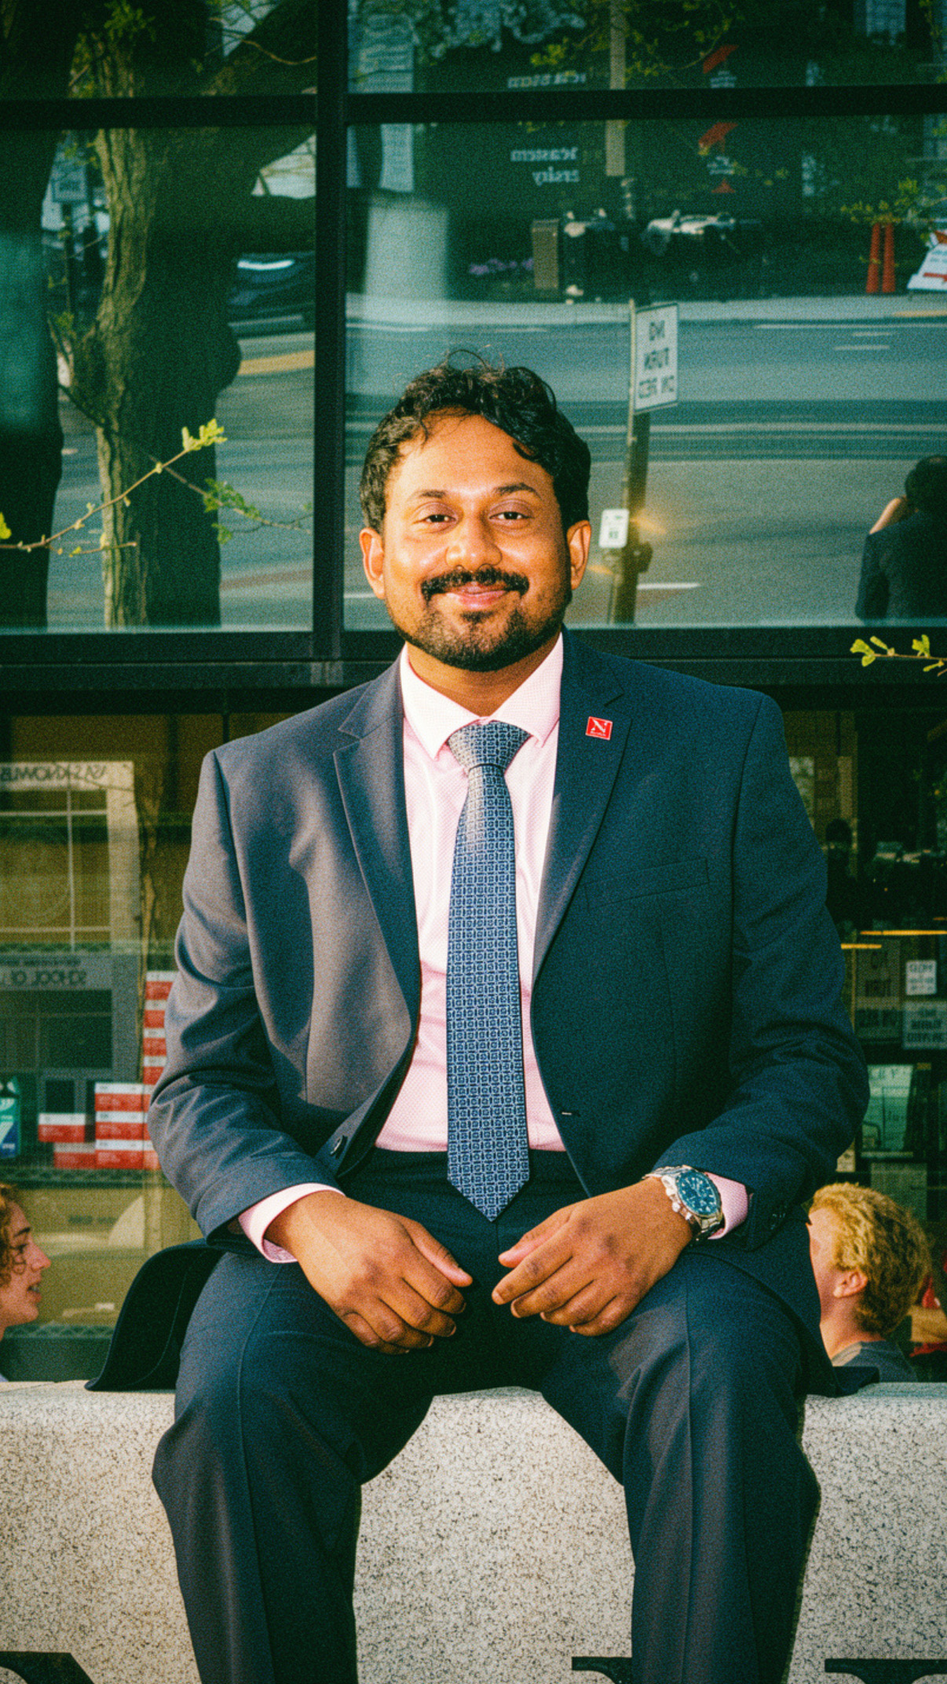
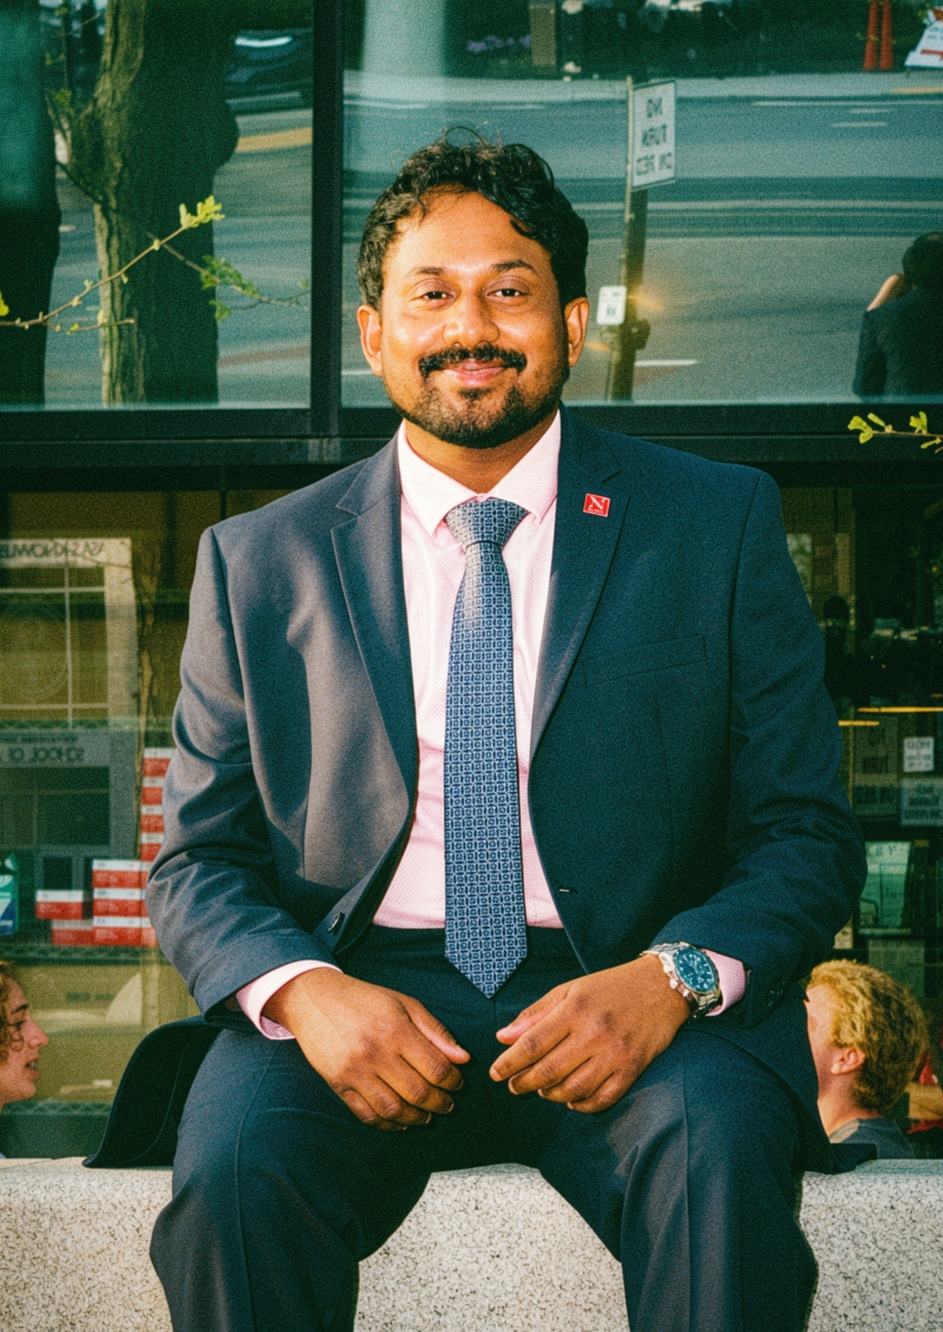
Add three projects from the GitHub audit
Crawled both accounts and read the codebases rather than the READMEs, same
as the existing thirteen. These were the three worth adding.

Mental Wellness Companion. PPO for the conversation policy and Thompson
sampling for resource recommendation, split because the feedback differs:
one resolves at the end of an episode, the other on every choice. The
argument on the page is its ablation, where removing the safety layer barely
moves engagement (79% to 75%) and takes the safety score to zero, which is
why safety sits outside the reward rather than inside it as a weight.

Deep Q-Learning on Atari Kaboom. Fills a gap twice over with the above:
there was no reinforcement learning here at all. The page leads on the
experiment matrix rather than the agent, since the baseline is measured
first and every variable moved on its own, making the findings attributable.

Financial Report Analyzer. Distinct from nvidia-fin-rag, which is the
chunking experiment; this is the agentic layer, where every tool edge
returns to the oracle so step count follows the question.

All figures trace to committed files. The wellness page carries a source
note: its numbers are a self-reported evaluation against a simulated
cohort, not a clinical result, and no real patient data is involved.

diff --git a/src/content/project-details.ts b/src/content/project-details.ts
@@ -407,6 +407,88 @@ export const projectDetails: Record<string, ProjectDetail> = {
     links: [{ label: "Live app", href: "https://nvidia-finrag.streamlit.app/" }],
   },
 
+  "financial-report-agent": {
+    problem:
+      "A question about a company rarely sits in one source. What the last filing said is in a PDF, what the market thinks is in today's price, and what changed this week is in the news. Answering from any one of them alone gives a confident answer built on a partial picture. This puts all three behind a single agent and lets it decide, after every step, which one the question still needs.",
+    stages: [
+      {
+        name: "Read the filings",
+        detail:
+          "Quarterly earnings reports are collected per company across 2023, 2024 and 2025, and converted with Mistral OCR, since a scanned report yields nothing useful to an embedding model without it. The markdown that comes out is what everything downstream works on.",
+      },
+      {
+        name: "Chunk against the tokenizer",
+        detail:
+          "Text is grouped into semantic chunks, then measured with tiktoken using the embedding model's own encoding. Anything over the limit is split by tokens rather than characters, so a chunk is never silently truncated at embed time. Vectors are upserted to Pinecone keyed by company, year and quarter, which is what makes a filtered question possible later.",
+      },
+      {
+        name: "Put an oracle in front",
+        detail:
+          "A LangGraph state graph holds one oracle node that decides what to do next, and four tools it can call. Every tool edge routes back to the oracle rather than onward to the next tool, so the graph loops instead of running a fixed pipeline, and the number of steps is set by the question rather than by the wiring.",
+      },
+      {
+        name: "Four tools, four different questions",
+        detail:
+          "Vector search answers what a filing said. Web search covers what has happened since. The market tool pulls a price history for a date range and computes change, percentage move, volatility, high and low. The fourth tool is the final answer, which is how the loop terminates rather than running until it hits a step limit.",
+      },
+      {
+        name: "Serve it, and let the caller narrow it",
+        detail:
+          "A FastAPI service exposes health, analyze, options, sample queries and a per-tool test endpoint. The Streamlit interface reads the options endpoint to offer year, quarter and company filters plus a choice of which tools are permitted, so the search space can be cut before the agent starts rather than after.",
+      },
+    ],
+    decisions: [
+      {
+        title: "Every tool returns to the oracle",
+        detail:
+          "The alternative is a pipeline: retrieve, then search, then summarise. That works until a question needs the market data before it knows which filing matters, at which point a fixed order is wrong. Routing every tool back to the oracle costs an extra decision per step and buys the ability to answer questions the graph was never explicitly designed for.",
+      },
+      {
+        title: "A test endpoint per tool",
+        detail:
+          "Agent loops fail in a specific way: the answer is wrong and it is not obvious which leg produced it. Exposing the tools individually means a suspect tool can be exercised on its own with a known input, so debugging is a single call rather than a full run followed by inference about what went wrong inside it.",
+      },
+      {
+        title: "Token budgets, not character counts",
+        detail:
+          "Chunking on characters is the common shortcut and it fails at the boundary: a chunk that looks fine is rejected or silently cut by the embedding model. Counting with the tokenizer that model actually uses means the split happens where the limit really is, and the sub-chunks that come out are all embeddable by construction.",
+      },
+    ],
+    results: [
+      {
+        metric: "4",
+        label: "Tools the agent routes between, each returning to the oracle",
+      },
+      { metric: "12", label: "Quarters indexed per company, 2023 through 2025" },
+      { metric: "3", label: "Sources reconciled: filings, market data, and news" },
+      { metric: "5", label: "API endpoints, with every tool testable on its own" },
+    ],
+    diagram: {
+      caption:
+        "The loop is the point. Every tool edge returns to the oracle rather than continuing to the next tool, so the number of steps is decided by the question rather than fixed by the graph.",
+      lanes: ["Source", "Extract", "Store", "Agent", "Serve"],
+      nodes: [
+        { id: "filings", label: "Quarterly\nfilings", col: 0, row: 0, kind: "source", note: "2023 to 2025" },
+        { id: "ocr", label: "Mistral OCR", col: 1, row: 0, kind: "process", note: "pdf to markdown" },
+        { id: "chunks", label: "Semantic chunks", col: 1, row: 1, kind: "process", note: "tiktoken budget" },
+        { id: "pine", label: "Pinecone", col: 2, row: 0, kind: "store", note: "year, quarter" },
+        { id: "oracle", label: "Oracle", col: 3, row: 0, kind: "process", note: "decides each step" },
+        { id: "tools", label: "4 tools", col: 3, row: 1, kind: "model", note: "back to oracle" },
+        { id: "live", label: "Market + news", col: 3, row: 2, kind: "source", note: "yfinance, serpapi" },
+        { id: "api", label: "FastAPI", col: 4, row: 0, kind: "serve", note: "5 endpoints" },
+      ],
+      edges: [
+        { from: "filings", to: "ocr" },
+        { from: "ocr", to: "chunks" },
+        { from: "chunks", to: "pine" },
+        { from: "pine", to: "oracle" },
+        { from: "oracle", to: "tools" },
+        { from: "live", to: "tools" },
+        { from: "tools", to: "api" },
+      ],
+    },
+  },
+
   "lora-peft-finetuning": {
     problem:
       "Fully fine-tuning a language model updates every weight, which needs hardware most people do not have and produces a checkpoint as large as the original model. This project adapts microsoft/DialoGPT-medium to a mental health question and answer domain by training a small fraction of it, on a single free Colab GPU, and ships the result as a file small enough to attach to an email.",
@@ -483,6 +565,174 @@ export const projectDetails: Record<string, ProjectDetail> = {
         { from: "lora", to: "train" },
         { from: "train", to: "eval" },
         { from: "eval", to: "out" },
+      ],
+    },
+  },
+
+  "mental-wellness-rl": {
+    problem:
+      "A support agent that learns from experience needs conversations to learn from, and in this domain those conversations are patient data. The way around it is to not use any: personas are generated from archetypes and a severity distribution, an LLM plays them turn by turn, and the policy trains against thousands of simulated conversations. That buys the training signal without the privacy problem, and it makes the safety layer non-optional rather than a feature, because an agent optimising a reward will happily find responses that score well and should never be said.",
+    stages: [
+      {
+        name: "Generate the people",
+        detail:
+          "A persona generator builds psychologically consistent users from a set of archetypes and a severity distribution, and an LLM then plays each one across a conversation. No real transcript is used at any point, which is the reason the project can exist as an open repository at all.",
+      },
+      {
+        name: "Describe the state",
+        detail:
+          "Each turn is compressed into a 256 dimension embedding: five emotional dimensions covering anxiety, depression, stress, anger and happiness, the previous five turns, three engagement signals, and two temporal features including how long it has been since the last contact.",
+      },
+      {
+        name: "Decide on three axes at once",
+        detail:
+          "The policy network runs 512, 256 and 128 hidden units and emits nineteen logits, which are read as three separate choices: one of eight conversation strategies, one of six resource types, and one of five response tones. A check-in time between one and 168 hours is chosen alongside them, so the agent decides not only what to say but when to come back.",
+      },
+      {
+        name: "Learn with two algorithms",
+        detail:
+          "PPO trains the conversation policy, clipping at 0.2 with an entropy bonus of 0.01, generalised advantage estimation and ten update epochs per batch. Resource recommendation instead runs Thompson sampling over Beta-distributed arms, sampling each arm's success probability rather than estimating a long-horizon return.",
+      },
+      {
+        name: "Score it, then override the score",
+        detail:
+          "Reward weights engagement at 0.4, mood improvement 0.3, resource use 0.2 and conversation quality 0.1, with a safety penalty of minus one and a crisis penalty of minus ten. Separately from the reward, a monitor screens every inbound message and outbound response for crisis keywords, harmful patterns and boundary violations, and appends crisis resources whenever risk crosses the referral threshold.",
+      },
+    ],
+    decisions: [
+      {
+        title: "Simulated users, by necessity and by design",
+        detail:
+          "Reinforcement learning needs far more conversations than any ethical collection process would yield here, and real ones would be among the most sensitive data there is. Generating personas and letting a language model play them removes the consent problem entirely. The cost is honest and worth stating: the agent is good at the simulated cohort it was trained against, which is not the same as being good with people.",
+      },
+      {
+        title: "Two learners, because the feedback differs",
+        detail:
+          "Conversation strategy pays off over a whole episode, so it needs a method that can assign credit backwards across turns, which is PPO. A resource recommendation gets its own immediate signal, so treating it the same way would spread one clear outcome across an entire conversation. Thompson sampling uses that signal where it lands, and the split follows the shape of the feedback rather than a preference for one algorithm.",
+      },
+      {
+        title: "Safety is not a weight in the reward",
+        detail:
+          "The ablation is the argument. Removing the safety layer barely moves engagement, 79% down to 75%, and takes the safety score from 100 to zero. Anything expressed as a reward term is by definition tradeable against the other terms, and those numbers show the trade is one an optimiser would happily make. It sits outside the objective, as a monitor that can override the policy's output.",
+      },
+    ],
+    results: [
+      { metric: "0", label: "Safety violations across 476 training episodes" },
+      { metric: "79%", label: "Engagement rate, a 75% improvement on the baseline" },
+      {
+        metric: "19",
+        label: "Action dimensions: 8 strategies, 6 resources, 5 tones",
+      },
+      { metric: "4", label: "Ablations: full, no PPO, no bandits, no safety" },
+    ],
+    diagram: {
+      caption:
+        "A closed training loop with no real user in it. The safety monitor sits between the policy and the reward deliberately, so it can override an action the objective would otherwise have rewarded.",
+      lanes: ["Simulate", "Observe", "Act", "Learn"],
+      nodes: [
+        { id: "persona", label: "Persona\ngenerator", col: 0, row: 0, kind: "source", note: "archetypes" },
+        { id: "user", label: "LLM user", col: 0, row: 1, kind: "source", note: "plays the persona" },
+        { id: "state", label: "256-d state", col: 1, row: 0, kind: "store", note: "mood, history" },
+        { id: "policy", label: "Policy network", col: 2, row: 0, kind: "model", note: "19 outputs" },
+        { id: "bandit", label: "Thompson bandit", col: 2, row: 1, kind: "model", note: "resources" },
+        { id: "safety", label: "Safety monitor", col: 2, row: 2, kind: "process", note: "can override" },
+        { id: "reward", label: "Reward", col: 3, row: 0, kind: "store", note: "4 terms, 2 penalties" },
+        { id: "ppo", label: "PPO update", col: 3, row: 1, kind: "process", note: "clip 0.2, GAE" },
+      ],
+      edges: [
+        { from: "persona", to: "user" },
+        { from: "user", to: "state" },
+        { from: "state", to: "policy" },
+        { from: "state", to: "bandit" },
+        { from: "policy", to: "safety" },
+        { from: "safety", to: "reward" },
+        { from: "bandit", to: "reward" },
+        { from: "reward", to: "ppo" },
+      ],
+    },
+    sourceNote:
+      "The engagement, mood and safety figures are the project's own evaluation against its simulated cohort, reported in the repository. They are not a clinical result and nothing here was trained on, or tested with, real patient data.",
+  },
+
+  "atari-kaboom-dqn": {
+    problem:
+      "Getting a Q-network to play an Atari game is a solved exercise, and a score on its own says very little: without knowing what random play scores, ten points could be excellent or barely better than nothing. This project treats that as the actual work. A baseline is measured first, then learning rate, discount, exploration policy and decay schedule are each varied on their own, and every run's raw scores are committed rather than summarised.",
+    stages: [
+      {
+        name: "Frame the problem honestly",
+        detail:
+          "Kaboom presents a 210 by 160 RGB frame and four discrete actions: no-op, fire, right and left. Inspecting the reward structure first showed no shaped reward to lean on, so the score is the only learning signal and the agent has to discover timing and positioning from it alone.",
+      },
+      {
+        name: "Measure random play",
+        detail:
+          "A random agent runs over the same episode budget and scores a mean of 3.45. That number comes before any training and is what every later figure is quoted against, which is the difference between reporting an improvement and reporting a score.",
+      },
+      {
+        name: "Build the network",
+        detail:
+          "A convolutional Q-network of 11.6 million parameters maps the raw frame to four action values. Experience replay breaks the correlation between consecutive frames, and a separate target network holds the bootstrap target still, so the value being regressed towards is not moving with the weights doing the regressing.",
+      },
+      {
+        name: "Vary one thing at a time",
+        detail:
+          "Learning rate is tested at 0.00025 and 0.001, discount at 0.99 and 0.8, exploration as epsilon-greedy against Boltzmann, and three epsilon decay schedules covering fast, slow and low-start. Each run changes a single variable, which is what makes the resulting difference attributable to it.",
+      },
+      {
+        name: "Commit the numbers",
+        detail:
+          "Ten result files land next to the notebook holding per-episode scores, the epsilon reached at the step limit, environment and architecture summaries, and the comparison tables. The claims on this page are read out of those files rather than from the write-up.",
+      },
+    ],
+    decisions: [
+      {
+        title: "Baseline before agent",
+        detail:
+          "Random play scoring 3.45 is the least interesting run and the most important one. Without it the trained agent's 10.85 is a number with nothing to compare against, and the temptation is to describe it as good. With it, the claim is 214% and it is checkable.",
+      },
+      {
+        title: "One variable per run, even when it is slow",
+        detail:
+          "Changing several settings at once and keeping whatever scores best produces a configuration nobody can explain. Isolating them costs more runs and yields attributable findings: raising the learning rate to 0.001 cost 24%, and dropping the discount to 0.8 cost 56%, which says the game's reward is far enough in the future that a short horizon cannot see it.",
+      },
+      {
+        title: "Report the experiment that lost",
+        detail:
+          "Boltzmann exploration scored 8.3 against epsilon-greedy's 8.95, about 7% behind. It stayed in the results rather than being quietly dropped. A comparison only means anything if the losing arm is still visible, and on this environment it is a genuine finding that the simpler policy won.",
+      },
+    ],
+    results: [
+      { metric: "214%", label: "Improvement over random play, 3.45 to 10.85" },
+      { metric: "11.6M", label: "Parameters in the convolutional Q-network" },
+      {
+        metric: "56%",
+        label: "Performance lost by dropping the discount to 0.8",
+      },
+      { metric: "10", label: "Result files committed alongside the notebook" },
+    ],
+    diagram: {
+      caption:
+        "The agent is the ordinary part. Replay and a separate target network keep training stable, and the experiment matrix on the right is what turns a single score into an attributable result.",
+      lanes: ["Environment", "Network", "Training", "Evidence"],
+      nodes: [
+        { id: "env", label: "Kaboom (ALE)", col: 0, row: 0, kind: "source", note: "210x160, 4 actions" },
+        { id: "random", label: "Random agent", col: 0, row: 1, kind: "process", note: "baseline 3.45" },
+        { id: "cnn", label: "CNN Q-network", col: 1, row: 0, kind: "model", note: "11.6M params" },
+        { id: "replay", label: "Replay buffer", col: 1, row: 1, kind: "store", note: "breaks correlation" },
+        { id: "target", label: "Target network", col: 2, row: 0, kind: "model", note: "stable bootstrap" },
+        { id: "explore", label: "Exploration", col: 2, row: 1, kind: "process", note: "greedy, boltzmann" },
+        { id: "runs", label: "Experiment matrix", col: 3, row: 0, kind: "process", note: "one variable each" },
+        { id: "json", label: "Result files", col: 3, row: 1, kind: "store", note: "raw scores" },
+      ],
+      edges: [
+        { from: "env", to: "cnn" },
+        { from: "random", to: "runs" },
+        { from: "cnn", to: "replay" },
+        { from: "replay", to: "target" },
+        { from: "cnn", to: "explore" },
+        { from: "target", to: "runs" },
+        { from: "explore", to: "runs" },
+        { from: "runs", to: "json" },
       ],
     },
   },

diff --git a/src/content/site.ts b/src/content/site.ts
@@ -1097,6 +1097,28 @@ export const projects: Project[] = [
     featured: false,
   },
   {
+    slug: "financial-report-agent",
+    title: "Financial Report Analyzer",
+    discipline: "AI Systems",
+    cardLine: "Filings, live prices and news in one answer.",
+    blurb:
+      "An agent that routes between quarterly filings, live market data and current news, deciding after every step which of the three a question still needs.",
+    description:
+      "Quarterly earnings reports for 2023 through 2025 are read with Mistral OCR, chunked against the embedding model's own tokenizer, and stored in Pinecone keyed by company, year and quarter. A LangGraph oracle then sits in front of four tools: the vector store for what a filing said, web search for what has happened since, a market data tool computing price change, volatility, high and low over a range, and a final answer that closes the loop. Every tool edge returns to the oracle, so a question needing both a filing and a live price gets both without either being hardcoded.",
+    outcome:
+      "4 tools behind one routing loop, over 12 indexed quarters per company",
+    stack: [
+      "LangGraph",
+      "Pinecone",
+      "Mistral OCR",
+      "FastAPI",
+      "Streamlit",
+      "yfinance",
+    ],
+    repo: "https://github.com/vedantmane12/financial-report-analyzer",
+    featured: false,
+  },
+  {
     slug: "lora-peft-finetuning",
     title: "LoRA / PEFT Fine-Tuning",
     discipline: "Machine Learning",
@@ -1116,6 +1138,50 @@ export const projects: Project[] = [
       "Responsible AI",
     ],
     repo: "https://github.com/vedantmane12/LLM-FineTuning",
+    featured: false,
+  },
+  {
+    slug: "mental-wellness-rl",
+    title: "Mental Wellness Companion",
+    discipline: "Machine Learning",
+    cardLine: "Trained on simulated people, never on patients.",
+    blurb:
+      "A reinforcement learning agent that learns which conversational strategy, resource and tone to use next, trained entirely against generated personas so no real patient data is involved.",
+    description:
+      "Two learners run side by side because the feedback differs. PPO handles the conversation policy, where reward only resolves at the end of an episode, and Thompson sampling over Beta-distributed arms handles resource recommendation, where each choice gets its own immediate signal. The policy reads a 256-dimension state built from five emotional dimensions, the last five turns and engagement and timing signals, then emits nineteen logits covering eight strategies, six resource types and five tones. A separate monitor screens every inbound message and outbound response, and the ablation shows why it cannot be a tunable weight.",
+    outcome:
+      "0 safety violations across 476 training episodes, with 79% engagement",
+    stack: [
+      "PyTorch",
+      "PPO",
+      "Thompson Sampling",
+      "Multi-Agent Systems",
+      "Responsible AI",
+      "FastAPI",
+    ],
+    repo: "https://github.com/vedantmane12/mental-wellness-companion",
+    featured: false,
+  },
+  {
+    slug: "atari-kaboom-dqn",
+    title: "Deep Q-Learning on Atari Kaboom",
+    discipline: "Machine Learning",
+    cardLine: "Every hyperparameter tested, none assumed.",
+    blurb:
+      "A CNN Q-network learning Atari Kaboom from raw pixels, where the interesting part is the experiment matrix around it rather than the agent itself.",
+    description:
+      "An 11.6 million parameter convolutional network maps a 210 by 160 RGB frame to four action values, trained with experience replay and a separate target network so the bootstrapped target does not drift with the weights being fitted. A random agent is measured first, at 3.45, and every later figure is quoted against it. Learning rate, discount factor, exploration policy and three decay schedules are then varied one at a time, and every run's scores are committed as JSON next to the notebook rather than summarised in prose.",
+    outcome:
+      "10.85 mean score against a 3.45 random baseline, a 214% improvement",
+    stack: [
+      "TensorFlow",
+      "Deep Q-Networks",
+      "Gymnasium",
+      "Experience Replay",
+      "Reinforcement Learning",
+      "NumPy",
+    ],
+    repo: "https://github.com/vedantmane12/Atari-Kaboom-Deep-QLearning",
     featured: false,
   },
   {

diff --git a/public/projects/CREDITS.md b/public/projects/CREDITS.md
@@ -16,6 +16,9 @@ License: https://unsplash.com/license
 - `chinook-azure-snowflake.jpg` · record store racks · https://unsplash.com/photos/1569823035625-1af6550f37d4
 - `seattle-pet-license.jpg` · dog on a leash · https://unsplash.com/photos/1580129518863-f00fcf1d6e68
 - `web-pdf-extraction.jpg` · stacks of paper documents · https://unsplash.com/photos/1583521214690-73421a1829a9
+- `financial-report-agent.jpg` · open report with charts · https://unsplash.com/photos/1759215524566-8aea4761a926
+- `mental-wellness-rl.jpg` · sunlight through a window · https://unsplash.com/photos/1631832293782-2eda7804489b
+- `atari-kaboom-dqn.jpg` · arcade cabinets in neon · https://unsplash.com/photos/1696360172919-f7fdaaa78a92
 - `orchestrate-event-db.jpg` · conference event stage · https://unsplash.com/photos/1587825140708-dfaf72ae4b04
 - `fred-economic-data.jpg` · economic charts and figures · https://unsplash.com/photos/1590283603385-17ffb3a7f29f
 - `academic-research-assistant.jpg` · library research shelves · https://unsplash.com/photos/1521587760476-6c12a4b040da
